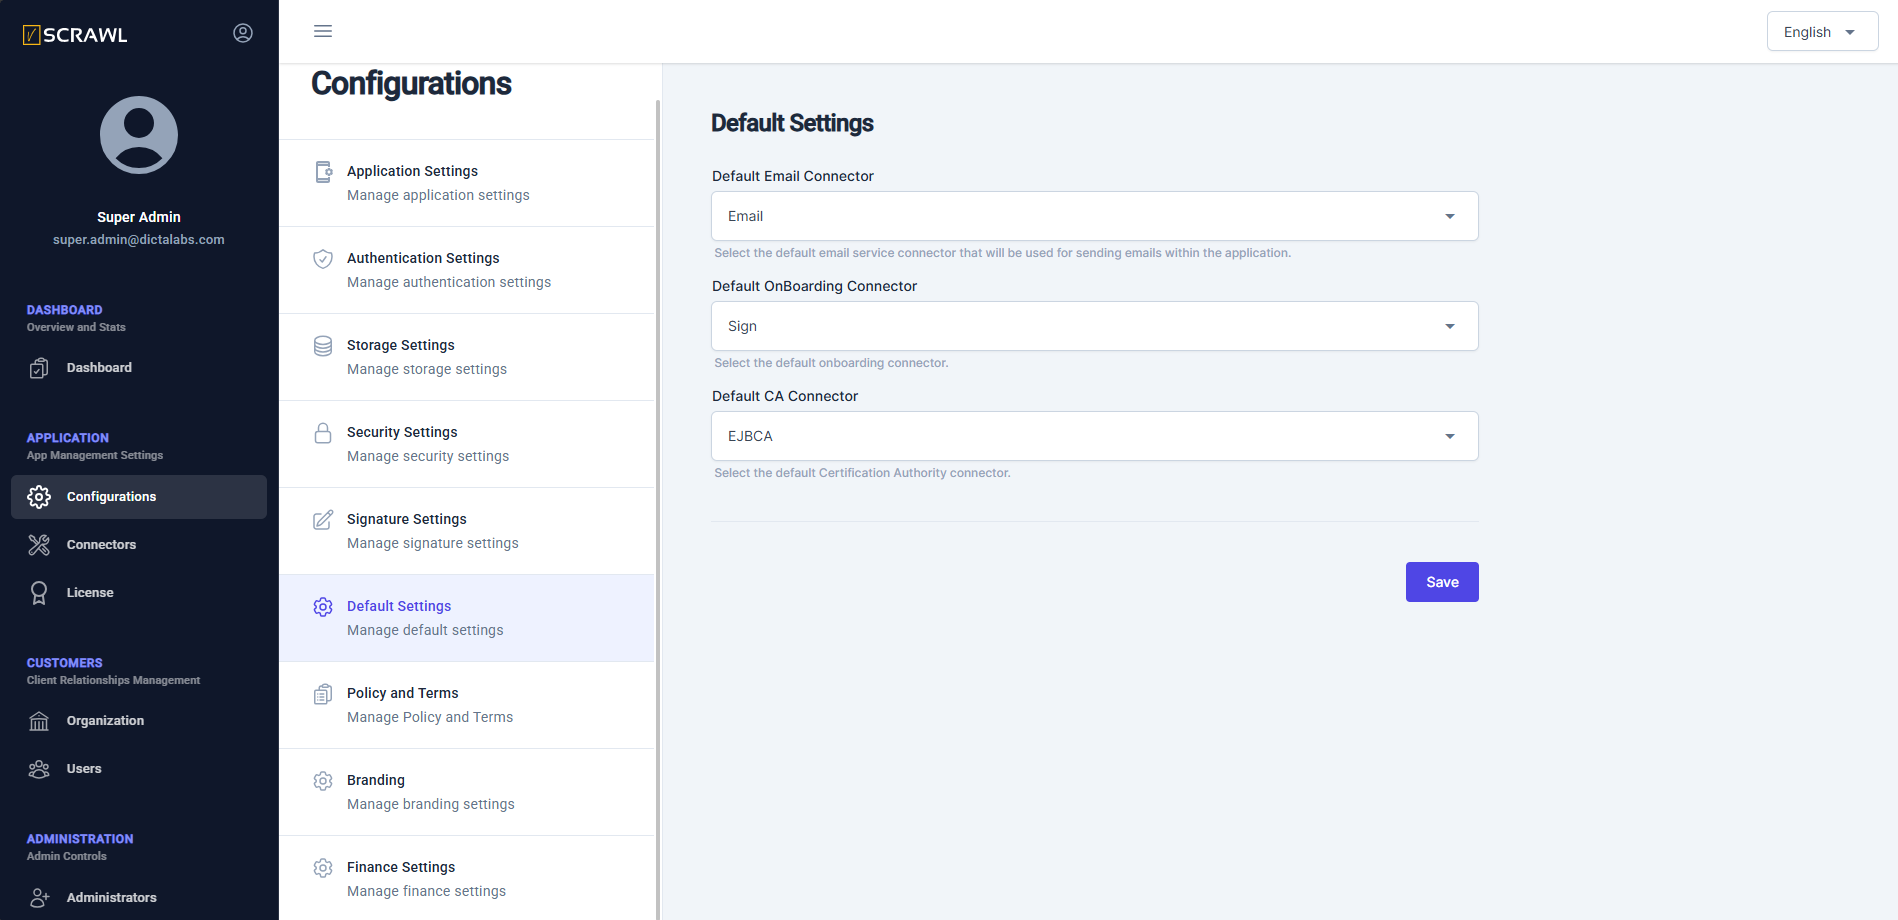
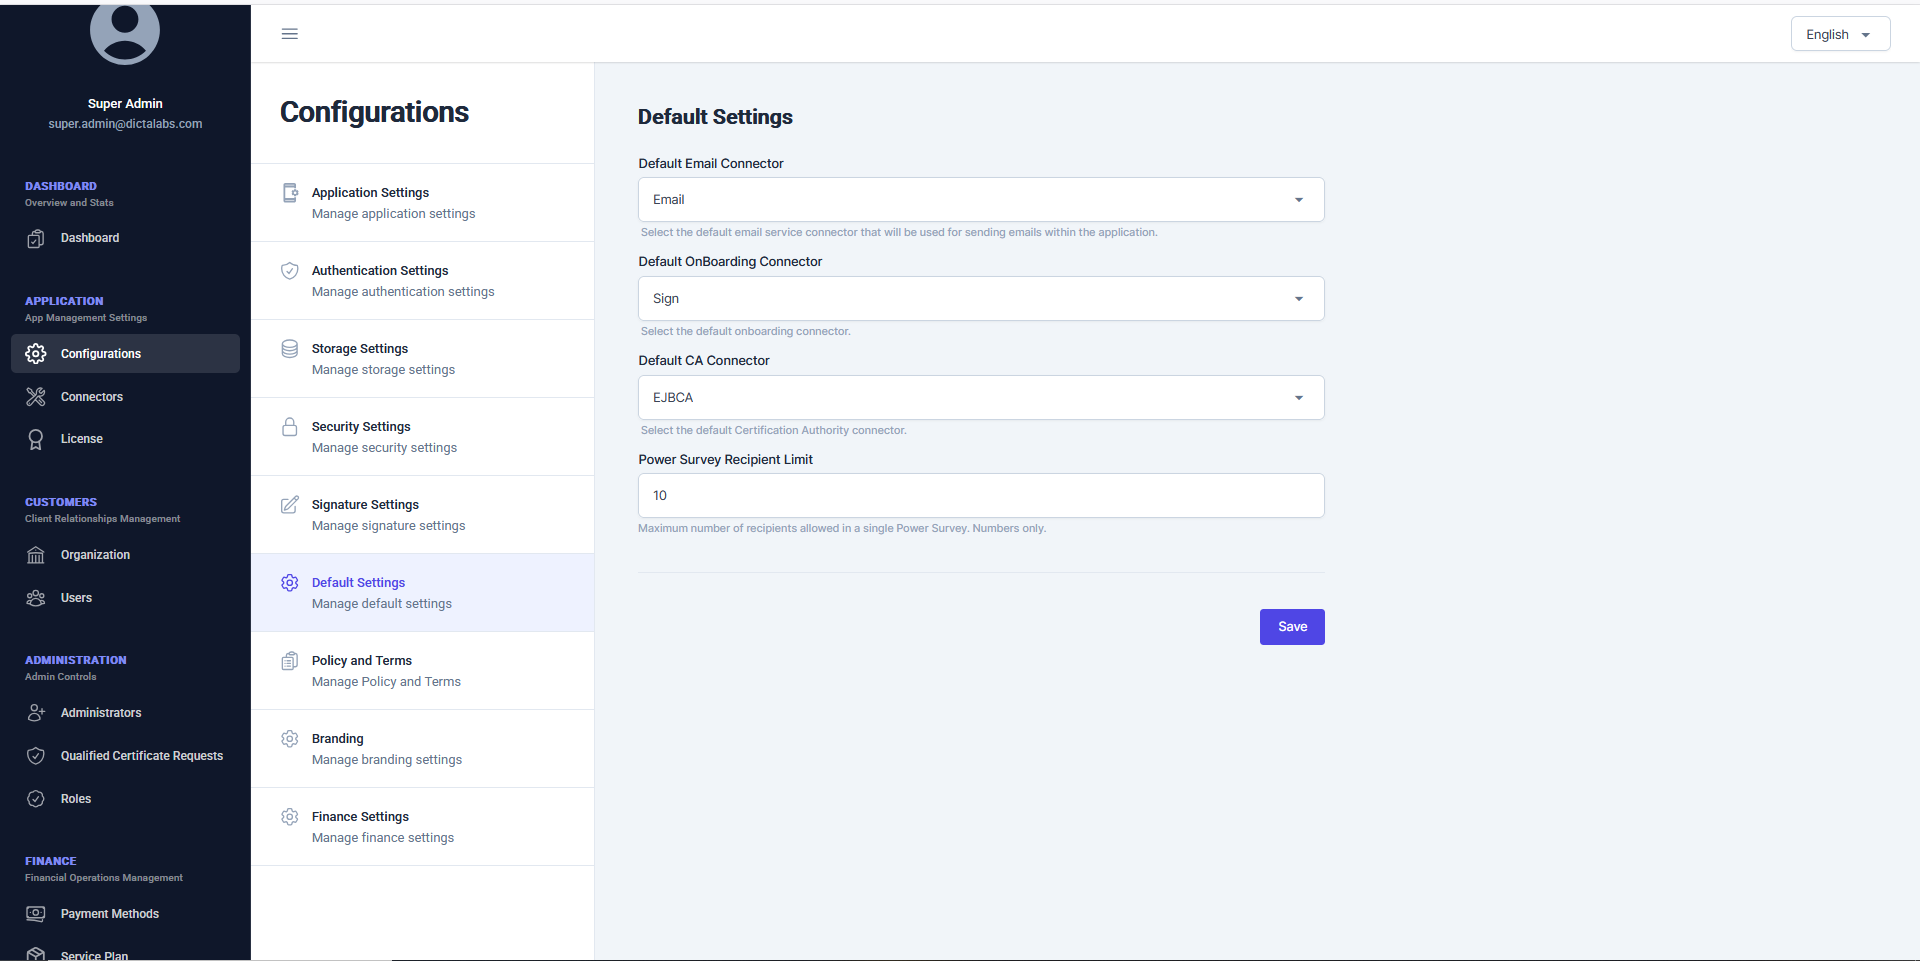
Updated vScrawl Admin Guide

diff --git a/docs/connectors/add_connectors.md b/docs/connectors/add_connectors.md
@@ -29,6 +29,10 @@ Click on the **Add Connector** button to open the connector creation screen.
 - **Purpose**: Select the purpose from the following options:  
   - **Email**  
   - **Sign**  
+  - **Certification Authority**
+  - **Auth**
+
+![Purpose Dropdown](../images/connector-purpose-dropdown.png)
 
 ---
 
@@ -45,9 +49,11 @@ These connectors facilitate digital signing. Choose the appropriate signing meth
      - Upload a logo for the application.  
      - Enter the server URL for eTugra Middleware.  
      - Select the signing options: **AES**, **QES**, or both.  
+     - Optionally toggle **Enable HSM Signing** to sign through a Hardware Security Module. When enabled, the **HSM Identifier** field becomes required.
 
    - **Example Configuration Screen**:  
      ![eTugra Middleware](../images/sign-etugra-middleware-connector.png)
+     ![eTugra Middleware HSM Signing](../images/connector-etugra-middleware-hsm.png)
 
 ####eTugra Signer App  
    Use this connector for local signing with user keys on a smart card or USB dongle.  
@@ -73,6 +79,19 @@ These connectors facilitate digital signing. Choose the appropriate signing meth
 
    - **Example Configuration Screen**:  
      ![CSC 2.0](../images/sign-cscv2-connector.png)
+
+####Crypto Engine
+   Use this connector for local signing backed by AWS KMS.
+
+   - **Configuration**:
+     - Enter a Name and the Crypto Engine's Base URI.
+     - Provide the AWS KMS Client ID and Client Secret.
+     - Provide a Store Name.
+     - Optionally upload a logo.
+     - Select the signature qualifiers: **Advanced Electronic Signature**, **Qualified Electronic Signature**, or both.
+
+   - **Example Configuration Screen**:
+     ![Crypto Engine](../images/connector-crypto-engine.png)
 
 ---
 
@@ -111,22 +130,66 @@ These connectors enable email notifications. Select the email service provider a
    - **Example Configuration Screen**:  
      ![Amazon SES Configuration](../images/email-amazon-ses-connector.png)
 
+####Microsoft 365 Graph (Microsoft OAuth2)
+   Use this connector to send email through a Microsoft 365 mailbox via the Microsoft Graph API.
+
+   - **Configuration**:
+     - Enter the Tenant ID and Client ID of the Microsoft Entra app registration.
+     - Provide the Client Secret.
+     - Provide the OAuth Scope (defaults to `https://graph.microsoft.com/.default`).
+     - Provide the Email From address used as the sender for outgoing emails.
+     - Click **Test Connection** to verify the configuration before saving.
+
+   - **Example Configuration Screen**:
+     ![Microsoft 365 Graph](../images/connector-microsoft365-graph.png)
+
 ---
 
 ### **Certification Authorities**  
-These connectors enable vScrawl to communicate with the configured Certification Authorities to issue vScrawl signing user certificates.  Currently only EJBCA is supported.
+These connectors enable vScrawl to communicate with the configured Certification Authorities to issue vScrawl signing user certificates. Select **Certification Authority** as the Purpose, then choose a Provider: **EJBCA** or **DictaLabs CA**.
 
 ####EJBCA  
    Use this connector to communicate with a pre-deployed EJBCA instance to issue user certificates.  
 
    - **Configuration**:  
      - Enter the EJBCA instance name and its base URI.  
-     - Provide the CCA Profile Name (certificate profile) and End Entity Profile as configured on EJBCA.  
+     - Provide the CCA Profile Name (certificate profile) and Profile Name for End Entity Certificates as configured on EJBCA.  
+     - Provide the QES Certificate Profile Name.
      - Provide the Certificate Authority (Issuing CA) name and corresponding username and password.
      - Browse for the keystore file to authenticate to the EJBCA and the keystore password.
 
    - **Example Configuration Screen**:  
      ![Amazon SES Configuration](../images/ca-ejbca-connector.png)
+     ![EJBCA QES Profile Name](../images/connector-ejbca-qes-profile.png)
+
+####DictaLabs CA
+   Use this connector to issue certificates through DictaLabs' own Certification Authority.
+
+   - **Configuration**:
+     - Enter a Name and the Base URI of the DictaLabs CA API.
+     - Provide the API Key (sent as `x-api-key`).
+     - Provide the CA Profile Name (Certification Authority Profile Name).
+     - Provide the QES Certificate Profile Name.
+
+   - **Example Configuration Screen**:
+     ![DictaLabs CA](../images/connector-dictalabs-ca.png)
+
+---
+
+### **Auth Connectors**
+These connectors let vScrawl delegate authentication to an external identity provider. Select **Auth** as the Purpose, then choose a Provider.
+
+####Keycloak
+   Use this connector to enable Single Sign-On via Keycloak. This connector must be configured before enabling Keycloak in [Authentication Settings](../other_admin_operations/authentication_settings.md).
+
+   - **Configuration**:
+     - Enter the Keycloak URL (base URL of the Keycloak server) and Realm name.
+     - Provide the Client ID and Client Secret registered in the realm.
+     - Provide the Admin Username and Admin Password for the Keycloak admin console.
+
+   - **Example Configuration Screen**:
+     ![Keycloak](../images/connector-keycloak.png)
+
 ---
 
 > **Note:** Carefully select the connector type and configuration that best meets your organizational requirements for optimal operation.

diff --git a/docs/other_admin_operations/qualified_cert_requests.md b/docs/other_admin_operations/qualified_cert_requests.md
@@ -1,0 +1,34 @@
+# Qualified Certificate Requests
+
+The **Qualified Certificate Requests** screen lets administrators review the identity-verification (KYC) submissions users make when requesting a **Qualified Electronic Signature (QES)** certificate under eIDAS.
+
+!!! note ""
+    This screen only appears in the left-side navigation when the uploaded license enables **eIDAS mode**. See [License Manager](license_manager.md) for how the license determines this.
+
+## Accessing Qualified Certificate Requests
+
+1. Log in to the admin console.
+2. From the left navigation menu, under **Administration**, click **Qualified Certificate Requests**.
+
+The list shows every request with **Name**, **Email**, **Mobile Phone**, **Nationality**, **Status** (Pending / Approved / Rejected), **Meeting Date**, and **Created On**. Use the search box to filter by name or email.
+
+![admin-qualified-cert-requests-list.png](../images/admin-qualified-cert-requests-list.png)
+
+## Reviewing a Request
+
+Click a request row (or use the **⋮** Options menu) to open its details:
+
+- **Personal Information** – First/Middle/Last Name, Date of Birth, Place of Birth, Gender, Nationality, Mother's Maiden Name.
+- **Contact Information** – Email, Mobile Phone, Country of Residence, National ID / Passport number.
+- **Document Information** – The submitted ID document, downloadable from the details page.
+- **Meeting Information** – Scheduled Meeting Date and Time.
+- **Review Information** – Reviewed At timestamp and any Admin Remarks left when the request was resolved.
+
+![admin-qualified-cert-request-details.png](../images/admin-qualified-cert-request-details.png)
+
+## Approving or Rejecting
+
+From a pending request, use the row's **⋮** Options menu (or the details page) to:
+
+- **Approve** – Grants the user's QES certificate request.
+- **Reject** – Opens a remarks dialog; enter a reason before confirming the rejection. The reason is saved as the request's **Admin Remarks**.

diff --git a/docs/other_admin_operations/authentication_settings.md b/docs/other_admin_operations/authentication_settings.md
@@ -19,8 +19,14 @@ For secure user login to the vScrawl application, **Two-Factor Authentication (2
   - **Google Authenticator app**.  
 
 ## Smart Card Authentication
-Administrators can enable or disable **Smart Card Authentication** to allow login through a **Smart Card**.
+Administrators can enable or disable **Smart Card Authentication** to allow login through a **Smart Card**. When enabled, a required **Smart Card Login Heading** field appears — the text shown as the heading on the smart card login screen.
 
 ## Single Sign-On (SSO)  
-Administrators can configure login using a user’s **Google account** to enable the **Single Sign-On (SSO)** feature.   
-Administrators can configure login using **Keycloak authentication** to enable **Single Sign-On (SSO)**. When enabled, users can securely log in through Keycloak; when disabled, only the standard login methods will be available.
+SSO is controlled by a parent **Enable SSO** toggle. Turning it on reveals two provider toggles nested underneath it:
+
+- **Enable Google Authentication** – Lets users log in with their **Google account**.
+- **Enable KeyCloak Authentication** – Lets users log in via **Keycloak**. This requires a [Keycloak connector](../connectors/add_connectors.md#auth-connectors) to be configured first.
+
+Turning the parent **Enable SSO** toggle off disables both providers, regardless of their individual state; when off, only the standard login methods are available.
+
+![admin-authentication-settings-sso-smartcard.png](../images/admin-authentication-settings-sso-smartcard.png)

diff --git a/docs/finance_settings/service_plans.md b/docs/finance_settings/service_plans.md
@@ -17,3 +17,10 @@ To add a new service plan, provide:
 - Administrator may additionally choose to turn on 2-Factor Authentication for users who use this service plan.
 - Allows administrators to control whether users can share workflow documents with other users. When enabled, users can share documents for collaboration; when disabled, document sharing is restricted.
 - Allows users to log in to the system using **SmartCard authentication**. When enabled, SmartCard login is available; when disabled, users must use the standard login methods.
+- **Compliance Mode** – Restrict which signing modes this service plan allows (cannot exceed what the uploaded license permits — see [License Manager](../other_admin_operations/license_manager.md)):
+    - **eIDAS (EU)** – Advanced & Qualified Electronic Signatures.
+    - **ESIGN + UETA (US)** – Simple Electronic Signatures with consent disclosure.
+    - These toggles only appear when the corresponding mode is enabled on the license. When eIDAS mode is on, at least one AES/QES connector must be selected above.
+- **Custom Email Connector** – Toggle **Allow custom email connector** to let organizations on this plan use their own email connector(s) instead of the system default, then select which connectors they may use from **Available email connectors**. This option is only available when the license permits custom SMTP.
+
+![Compliance Mode and Custom Email Connector](../images/admin-service-plan-compliance-custom-email.png)

diff --git a/docs/other_admin_operations/license_manager.md b/docs/other_admin_operations/license_manager.md
@@ -8,10 +8,16 @@ From the left navigation pane, click on **License** under **APPLICATION** to ope
 From this page, administrators can:  
 - View details relevant to the configured vScrawl license file, including:  
   - License type  
+  - **Compliance Mode** – shows which signing regulation regimes this license permits: **eIDAS (EU)**, **ESIGN / UETA (US)**, or **eIDAS + ESIGN / UETA** if both are enabled.
   - Product name  
   - License period  
   - Customer information (to whom the license file was issued)  
 - Review limits applied by the license file on various licensed modules.  
+
+![admin-license-manager-compliance-mode.png](../images/admin-license-manager-compliance-mode.png)
+
+!!! note ""
+    Compliance Mode drives which features appear elsewhere in the app. **eIDAS** mode is required for the [Qualified Certificate Requests](qualified_cert_requests.md) screen and eIDAS Compliance Mode toggles on a [Service Plan](../finance_settings/service_plans.md) to be available.
 - Download the license file signing certificate and the license file itself for verifying the signature on the license file.  
 - Configure a new license file if:  
   - The current license is about to expire.  

diff --git a/docs/other_admin_operations/activity_logs.md b/docs/other_admin_operations/activity_logs.md
@@ -1,0 +1,24 @@
+# Activity Logs
+
+**Activity Logs** is a chronological audit trail of actions performed by end users (organization owners and their team members) across the platform — separate from admin-performed actions, which are tracked in [Audit Logs](audit_logs.md).
+
+## Accessing Activity Logs
+
+1. Log in to the admin console.
+2. From the left navigation menu, under **Audit**, click **Activity Logs**.
+
+Each row shows: **ID**, **User**, **Organization**, **Module**, **Action Performed**, **Performed By**, and **Date and time**. Use the search box to filter entries, and the pagination controls at the bottom to page through results.
+
+![admin-activity-logs-list.png](../images/admin-activity-logs-list.png)
+
+## Viewing a Change
+
+Click the **eye icon** in the **View Changes** column on any row to see exactly what changed:
+
+- **Browser Agent** and **IP Address** the action was performed from.
+- **Previous** – the record's state before the action.
+- **Current** – the record's state after the action.
+
+![admin-activity-logs-view-changes.png](../images/admin-activity-logs-view-changes.png)
+
+Click **Close** to return to the log list.

diff --git a/docs/other_admin_operations/audit_logs.md b/docs/other_admin_operations/audit_logs.md
@@ -1,0 +1,24 @@
+# Audit Logs
+
+**Audit Logs** is a chronological trail of actions performed by **administrators** in the admin console — the counterpart to [Activity Logs](activity_logs.md), which tracks end-user actions instead.
+
+## Accessing Audit Logs
+
+1. Log in to the admin console.
+2. From the left navigation menu, under **Audit**, click **Audit Logs**.
+
+Each row shows: **ID**, **User**, **Organization**, **Module**, **Action Performed**, **Performed By** (admin name and email), and **Date and time**. Use the search box to filter entries, and the pagination controls at the bottom to page through results.
+
+![admin-audit-logs-list.png](../images/admin-audit-logs-list.png)
+
+## Viewing a Change
+
+Click the **eye icon** in the **View Changes** column on any row to see exactly what changed:
+
+- **Browser Agent** and **IP Address** the action was performed from.
+- **Previous** – the setting's state before the action.
+- **Current** – the setting's state after the action.
+
+![admin-audit-logs-view-changes.png](../images/admin-audit-logs-view-changes.png)
+
+Click **Close** to return to the log list.

diff --git a/docs/connectors/configure_connectors.md b/docs/connectors/configure_connectors.md
@@ -8,5 +8,8 @@ In this screen, the administrator can select the default connectors for:
 
 - **Default Email Connector**: Choose the default email connector to manage email notifications.
 
-- **Default OnBoarding Connector**: Select the default onboarding connector for remote signatures. 
-- **Default CA Connector**: Select the default Certification Authority connector.  Currently only EJBCA based CA connector is supported.
+- **Default OnBoarding Connector**: Select the default onboarding connector for remote signatures. Only Sign connectors using the **eTugra Middleware** or **Crypto Engine** providers appear in this dropdown.
+- **Default CA Connector**: Select the default Certification Authority connector, from any configured **EJBCA** or **DictaLabs CA** connector.
+- **Power Survey Recipient Limit**: Set the maximum number of recipients allowed in a single Power Survey (numbers only). Leave blank to use the application default.
+
+![Power Survey Recipient Limit](../images/admin-default-settings-power-survey-limit.png)

diff --git a/docs/index.md b/docs/index.md
@@ -29,7 +29,6 @@ Welcome to the **vScrawl Admin Guide**. This guide will walk you through setting
 - [Credit Details](finance_settings/credit_details.md)
 
 ### Other Administrative Operations:
-- [What Comes Next](other_admin_operations/what_comes_next.md)
 - [License Manager](other_admin_operations/license_manager.md)
 - [Application Settings](other_admin_operations/application_settings.md)
 - [Authentication Settings](other_admin_operations/authentication_settings.md)
